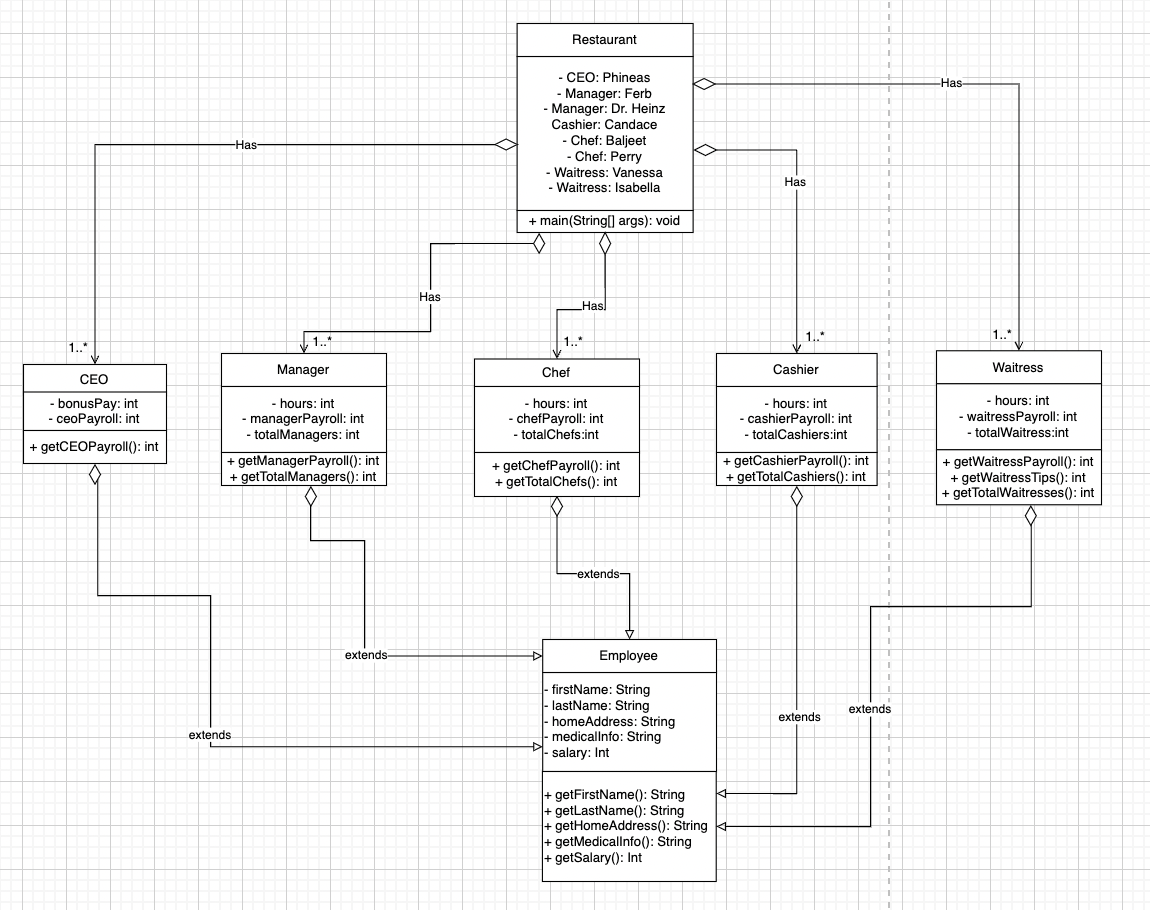
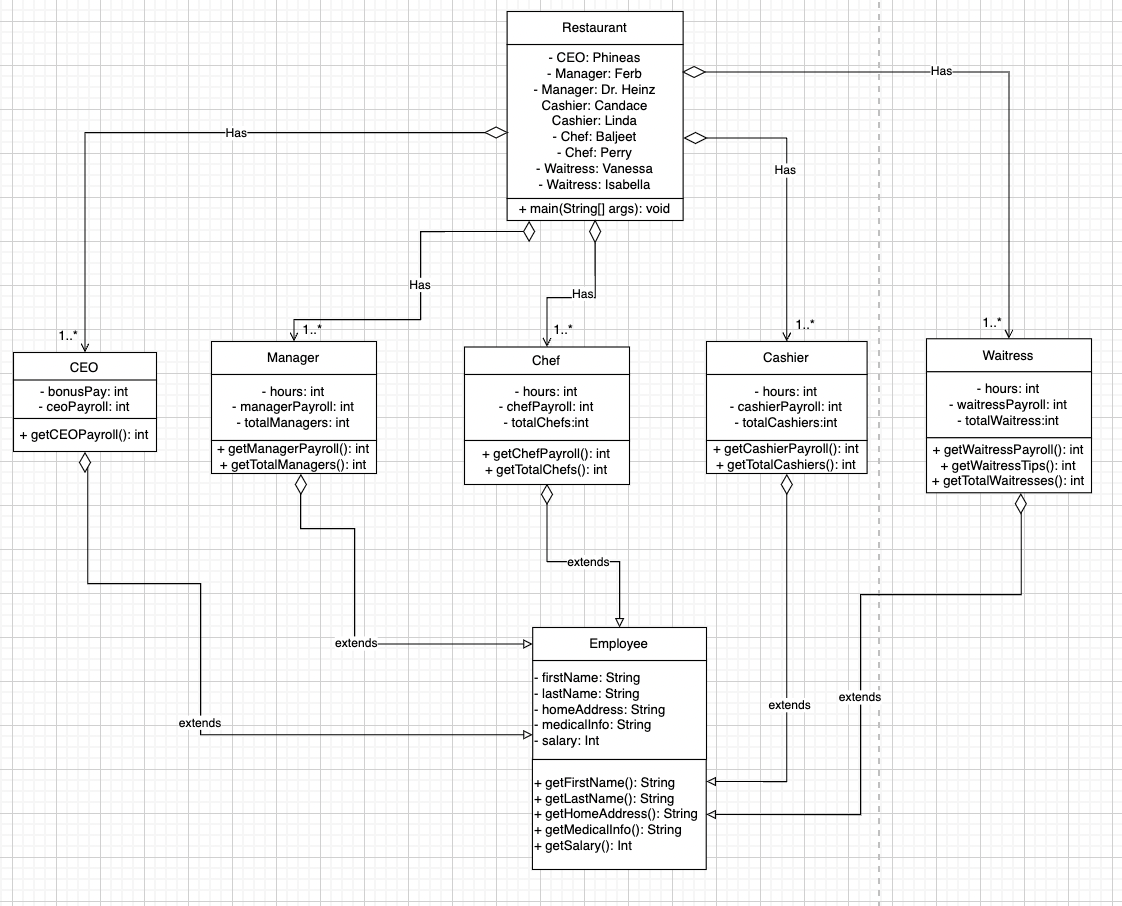
deleted head chef and updated restaurant file

diff --git a/src/RestaurantInformation/Restaurant.java b/src/RestaurantInformation/Restaurant.java
@@ -1,16 +1,12 @@
 package RestaurantInformation;
 
-import java.io.*;
 import java.util.ArrayList;
-
-import com.apple.laf.resources.aqua;
 
 
 public class Restaurant {
 
   // Instance Variables
-  private CEO ceo;
-  private HeadChef headChef;
+  private CEO CEO;
   private ArrayList<Cashier> cashiers;
   private ArrayList<Manager> managers;
   private ArrayList<Chef> chefs;
@@ -21,9 +17,8 @@ public class Restaurant {
     * @param theCEO - the CEO
     */
   public Restaurant(CEO theCEO){
-    ceo = theCEO;
+    CEO = theCEO;
     // Initializes the staff lists
-    headChef =
     cashiers = new ArrayList<Cashier>();
     managers = new ArrayList<Manager>();
     chefs = new ArrayList<Chef>();
@@ -63,12 +58,11 @@ public class Restaurant {
   }
   
   
-
   /**
   * Method allows for getting number of cashiers
-  * @return number of cashiers
+  * @return number of staff
   */
-  public int getNumCas(){
+  public int getNumCashiers(){
     return cashiers.size();
   }
 
@@ -80,13 +74,30 @@ public class Restaurant {
     return managers.size();
   }
 
+   /**
+  * Method allows for getting number of managers
+  * @return number of cashiers
+  */
+  public int getNumChefs(){
+    return chefs.size();
+  }
+
+   /**
+  * Method allows for getting number of 
+  * @return number of cashiers
+  */
+  public int getNumWaitresses(){
+    return waitresses.size();
+  }
+
+
   /**
   * Method allows for getting the total cashier payroll
   * @return total payroll for cashiers
   */
-  public int getPayrollDev(){
+  public int getCashierPayroll(){
     int totalPayroll = 0;
-    for(int i = 0; i < getNumDev(); i++){
+    for(int i = 0; i < getNumCashiers(); i++){
       totalPayroll = totalPayroll + cashiers.get(i).getSalary();
     }
     return totalPayroll;
@@ -96,10 +107,34 @@ public class Restaurant {
   * Method allows for getting the total manager payroll
   * @return total payroll for managers
   */
-  public int getPayrollManager(){
+  public int getManagerPayroll(){
     int totalPayroll = 0;
     for(int i = 0; i < getNumManagers(); i++){
       totalPayroll = totalPayroll + managers.get(i).getSalary();
+    }
+    return totalPayroll;
+  }
+
+  /**
+  * Method allows for getting the total chef payroll
+  * @return total payroll for chefs
+  */
+  public int getChefPayroll(){
+    int totalPayroll = 0;
+    for(int i = 0; i < getNumChefs(); i++){
+      totalPayroll = totalPayroll + chefs.get(i).getSalary();
+    }
+    return totalPayroll;
+  }
+
+  /**
+  * Method allows for getting the total waitress payroll
+  * @return total payroll for waitresses
+  */
+  public int getWaitressPayroll(){
+    int totalPayroll = 0;
+    for(int i = 0; i < getNumWaitresses(); i++){
+      totalPayroll = totalPayroll + waitresses.get(i).getSalary();
     }
     return totalPayroll;
   }
@@ -115,12 +150,32 @@ public class Restaurant {
   }
 
   /**
+  * Method allows for the printing out of all the waitresses
+  * @return void
+  */
+  public void printWaitresses(){
+    for (int i = 0; i < getNumWaitresses(); i++) {
+      System.out.println(waitresses.get(i));
+    }
+  }
+
+  /**
   * Method allows for the printing out of all the cashiers
   * @return void
   */
-  public void printDevs(){
-    for (int i = 0; i < getNumDev(); i++) {
+  public void printCashiers(){
+    for (int i = 0; i < getNumCashiers(); i++) {
       System.out.println(cashiers.get(i));
+    }
+  }
+
+  /**
+  * Method allows for the printing out of all the chefs
+  * @return void
+  */
+  public void printChefs(){
+    for (int i = 0; i < getNumChefs(); i++) {
+      System.out.println(chefs.get(i));
     }
   }
 
@@ -128,18 +183,41 @@ public class Restaurant {
   * Method allows for the printing out of all the cashiers' hours
   * @return void
   */
-  public void printDevHours(){
-    for (int i = 0; i < getNumDev(); i++) {
+  public void printCashierHours(){
+    for (int i = 0; i < getNumCashiers(); i++) {
       System.out.println(cashiers.get(i).getFirstName() + " " + cashiers.get(i).getLastName() + ": " + cashiers.get(i).getHours());
     }
   }
 
   /**
-  * Method allows for the printing out of all the managers' current projects
+  * Method allows for the printing out of all the chefs hours
   * @return void
   */
-  public void printManagerProject(){
-    for (int i = 0; i < getNumManagers(); i++) {
-      System.out.println(managers.get(i).getFirstName() + " " + managers.get(i).getLastName() + ": " + managers.get(i).getCurrentProject());
+  public void printChefHours(){
+    for (int i = 0; i < getNumChefs(); i++) {
+      System.out.println(chefs.get(i).getFirstName() + " " + chefs.get(i).getLastName() + ": " + chefs.get(i).getHours());
     }
+  }
+
+  /**
+  * Method allows for the printing out of all the managers hours
+  * @return void
+  */
+  public void printManagerHours(){
+    for (int i = 0; i < getNumManagers(); i++) {
+      System.out.println(managers.get(i).getFirstName() + " " + managers.get(i).getLastName() + ": " + managers.get(i).getHours());
+    }
+  }
+
+  /**
+  * Method allows for the printing out of all the waitresses hours
+  * @return void
+  */
+  public void printWaitressHours(){
+    for (int i = 0; i < getNumWaitresses(); i++) {
+      System.out.println(waitresses.get(i).getFirstName() + " " + waitresses.get(i).getLastName() + ": " + waitresses.get(i).getHours());
+    }
+  }
+
+  
   }

diff --git a/src/RestaurantInformation/Waitress.java b/src/RestaurantInformation/Waitress.java
@@ -4,6 +4,8 @@ public class Waitress extends Employee{
 
 // Instance variable
   private int hours;
+  private int tips;
+
 
   /**
     * Constructor - creates a new Waitress instance
@@ -14,10 +16,11 @@ public class Waitress extends Employee{
     * @param sal - the Waitress's salary
     * @param theHours - the Waitress's hours
     */
-  public Waitress(String fname, String lname, String address, String med, int sal, int theHours){
+  public Waitress(String fname, String lname, String address, String med, int sal, int theHours, int theTips){
     // Triggers a parent constructor in Employee class
     super(fname, lname, address, med, sal);
     hours = theHours;
+    tips = theTips;
   }
 
   /**
@@ -27,6 +30,14 @@ public class Waitress extends Employee{
   public int getHours(){
     return hours;
   }
+
+  /**
+  * Getter method for Waitress's tips
+  */
+  public int getTips(){
+    return tips;
+  }
+
 
   /**
   * String representation of a Waitress
@@ -41,6 +52,7 @@ public class Waitress extends Employee{
     System.out.println("Medical Information: " + getMedical());
     System.out.println("Salary: $" + getSalary());
     System.out.println("Number of Hours Worked: " + hours);
+    System.out.println("Amount of Tips: " + tips);
     return "--------------------------------------";
   }
 }

diff --git a/src/RestaurantInformation/Main.java b/src/RestaurantInformation/Main.java
@@ -12,7 +12,7 @@ public class Main {
     CEO Phineas;
     Manager Ferb;
     Cashier Candace;
-    HeadChef Heinz;
+    Chef Heinz;
     Chef Baljeet;
     Chef Perry;
     Waitress Vanessa;
@@ -67,7 +67,7 @@ public class Main {
     Heinz = new HeadChef("Heinz", "Doofenshmirtz", "23 Rock Rd.", "Asthma", 150000, 5000);
     Baljeet = new Chef("Squidward", "Tentacles", "9 Octopus Cres.", "Dog Allergy", 150000, "Music App");
     Perry = new Chef("Perry", "Platypus", "");
-    Vanessa = new Waitress("Vanessa", "Doofenshmirtz", "");
+    Vanessa = new Waitress("Vanessa", "Doofenshmirtz", "28", "none", 200, 200);
     Isabella = new Waitress("Isabella", "Shapiro", "");
 
     // Creates a Resturant object
